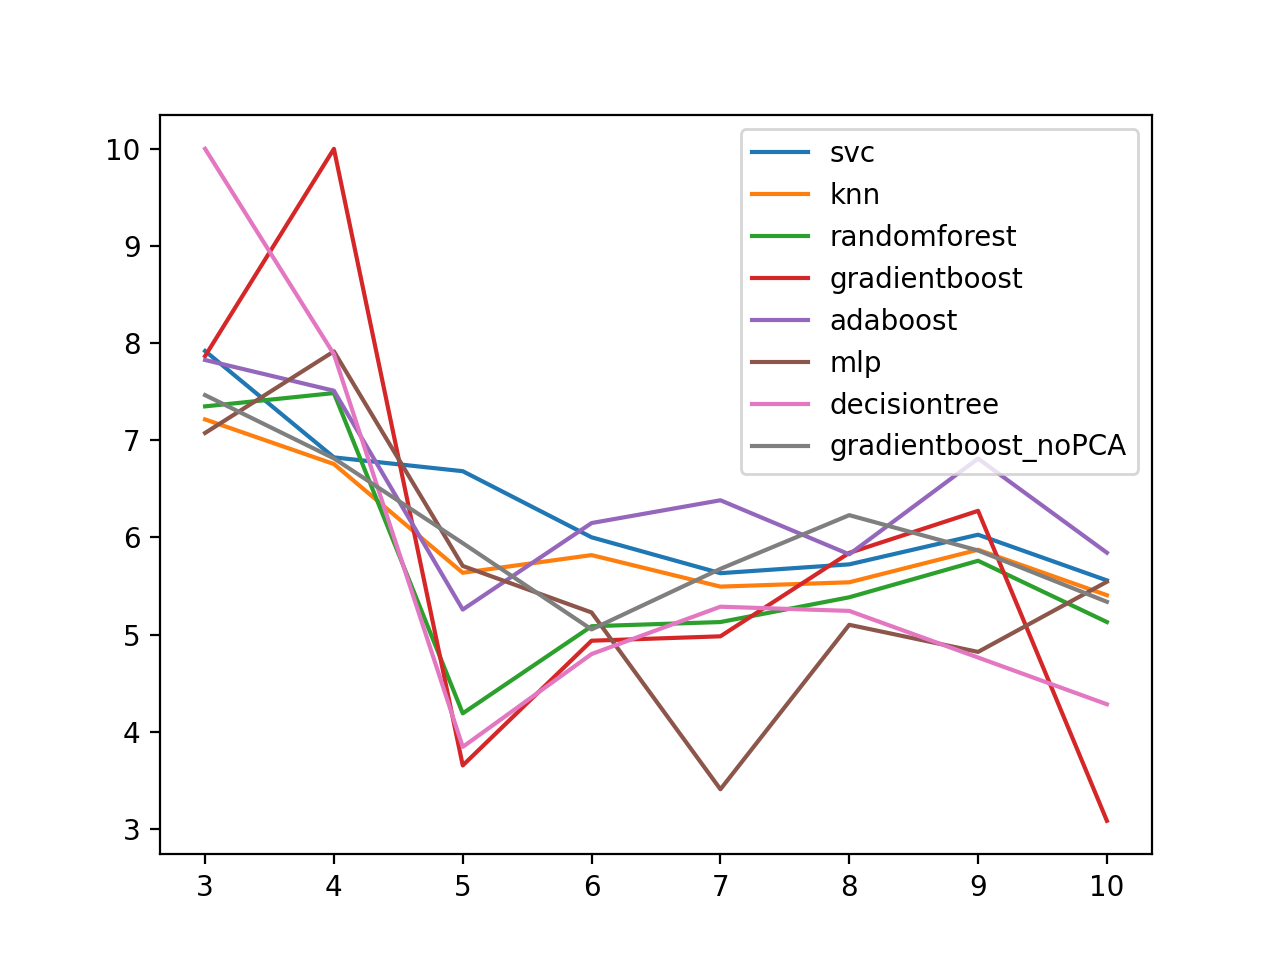
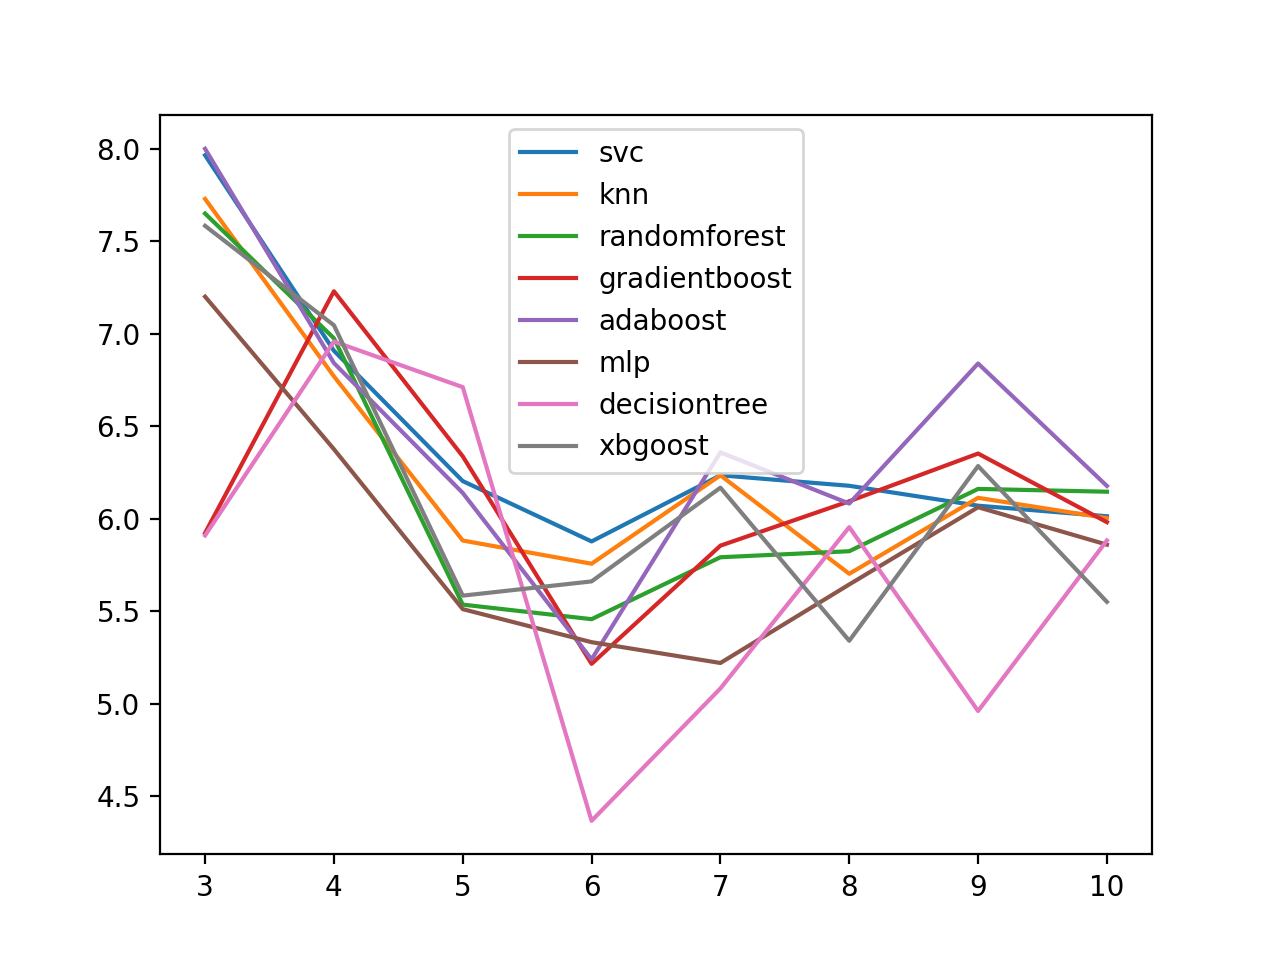
report stuff

diff --git a/src/models.py b/src/models.py
@@ -65,7 +65,7 @@ def train(df: pd.DataFrame, estimator: any, param_grid: dict, name: str, importa
     feature_names.remove("year")
     feature_names.remove("playoff")
 
-    for year in range(11, 12):
+    for year in range(3, 11):
         X_train, y_train, X_test, y_test, X = custom_split(df, year, usepca)
 
         grid_search = GridSearchCV(estimator=estimator, refit=True, verbose=False, param_grid=param_grid, n_jobs=-1, scoring="accuracy")
@@ -75,10 +75,9 @@ def train(df: pd.DataFrame, estimator: any, param_grid: dict, name: str, importa
         # Predictions on training set
         y_pred_full = grid_search.best_estimator_.predict_proba(X_test)
         y_pred = y_pred_full[:,1]
-        
-        #errors.append(str(predict_error(y_pred, y_test, year)))
 
-        error = predict_error_2metric(y_pred, y_test)
+        error = predict_error(y_pred, y_test, year)
+        errors.append(str(error))
 
         if name == "decisiontree":
             tree.plot_tree(grid_search.best_estimator_, feature_names=feature_names)
@@ -89,9 +88,9 @@ def train(df: pd.DataFrame, estimator: any, param_grid: dict, name: str, importa
         #plot_confusion_matrix(f"{name}/year{year}", y_test, y_pred_full)
         #if (importances): calculate_importances(f"{name}/year{year}", grid_search.best_estimator_, X, X_test, y_test)
 
-    #with open(f"results_{name}.txt", "w") as f:
-    #    for error in errors:
-    #        f.write(f"{error}\n")
+    with open(f"results_{name}.txt", "w") as f:
+        for error in errors:
+            f.write(f"{error}\n")
     return error
 
 def objective(trial):
@@ -198,14 +197,16 @@ def model_xgboost():
 
     #df = prepare_data_y11()
     params = {
-        'max_depth': [3, 5, 6],
-        'learning_rate': [0.5, 0.3, 0.1],
-        'subsample': [0.5, 0.7, 1]
+        'min_child_weight': [1, 5, 10],
+        'gamma': [0.1, 0.3, 0.5],
+        'max_depth': [5, 6, 7]
     }
     estimator = XGBClassifier(random_state=42)
     min_error = float('inf')
     best_alphas = None
-    for alphas in alpha_combinations:
+    df = prepare_data_y11(0.9, 0.8, 0.8, 0.6)
+    train(df, estimator, params, "xbgoost", False, False)
+    '''for alphas in alpha_combinations:
         alpha1, alpha2, alpha3, alpha4 = alphas
         alpha1= alpha1.item() 
         alpha2= alpha2.item()
@@ -221,10 +222,10 @@ def model_xgboost():
             best_alphas = alphas
             print (f"New best error: {min_error} with alphas: {best_alphas}")
 
-    print(f"Best alphas: {best_alphas} - Error: {min_error}")
+    print(f"Best alphas: {best_alphas} - Error: {min_error}")'''
 
 def model_randomforest():
-    df = prepare_data_y11()
+    df = prepare_data_y11(0.9, 0.8, 0.8, 0.6)
 
     param_grid = {
         'n_estimators': [100, 200, 500],
@@ -238,7 +239,7 @@ def model_randomforest():
     train(df, estimator, param_grid, "randomforest", False)
 
 def model_gradientboost():
-    df = prepare_data_y11()
+    df = prepare_data_y11(0.9, 0.8, 0.8, 0.6)
     gradient_boosting_params = {
         'learning_rate': [0.001, 0.005, 0.01, 0.05, 0.1, 0.5],
         'max_leaf_nodes': [20,30,40]
@@ -247,7 +248,7 @@ def model_gradientboost():
     train(df, estimator, gradient_boosting_params, "gradientboost", False)
 
 def model_gradientboost_nopca():
-    df = prepare_data()
+    df = prepare_data_y11(0.9, 0.8, 0.8, 0.6)
     gradient_boosting_params = {
         'learning_rate': [0.001, 0.005, 0.01, 0.05, 0.1, 0.5],
         'max_leaf_nodes': [20,30,40]
@@ -265,6 +266,7 @@ def model_badgb():
     train(df, estimator, gradient_boosting_params, "bad_gradientboost", True)
 
 def model_svc():
+    df = prepare_data_y11(0.9, 0.8, 0.8, 0.6)
     alpha_values = np.linspace(0.25, 0.75, num=2)  # Generate 11 values between 0 and 1
     alpha_combinations = list(product(alpha_values, repeat=4))  # Generate all combinations of 4 alphas
 
@@ -274,7 +276,8 @@ def model_svc():
     svc = SVC(probability=True, random_state=42)
     min_error = float('inf')
     best_alphas = None
-    for alphas in alpha_combinations:
+    train(df, svc, param_grid, "svc", False)
+    '''for alphas in alpha_combinations:
         alpha1, alpha2, alpha3, alpha4 = alphas
         df = prepare_data_y11(alpha1.item(), alpha2.item(), alpha3.item(), alpha4.item())
         print(f"Testing with alphas: {alphas}")
@@ -283,10 +286,10 @@ def model_svc():
             min_error = error
             best_alphas = alphas
             print (f"New best error: {min_error} with alphas: {best_alphas}")
-    print(f"Best alphas: {best_alphas}")
+    print(f"Best alphas: {best_alphas}")'''
 
 def model_adaboost():
-    df = prepare_data_y11()
+    df = prepare_data_y11(0.9, 0.8, 0.8, 0.6)
     param_grid = {
         'n_estimators': [100, 200, 500],
         'learning_rate': [0.5,1,2,5],
@@ -296,7 +299,7 @@ def model_adaboost():
     train(df, estimator, param_grid, "adaboost")
 
 def model_knn():
-    df = prepare_data()
+    df = prepare_data_y11(0.9, 0.8, 0.8, 0.6)
     param_grid = {
         'n_neighbors': list(range(1, 27)),
         'weights': ['uniform', 'distance'],
@@ -306,16 +309,16 @@ def model_knn():
     train(df, estimator, param_grid, "knn")
 
 def model_decisiontree():
-    df = prepare_data_y11()
+    df = prepare_data_y11(0.9, 0.8, 0.8, 0.6)
     param_grid = { 'criterion':['gini','entropy'],'max_depth': np.arange(3, 15)}
     estimator = DecisionTreeClassifier(random_state=42)
     train(df, estimator, param_grid, "decisiontree")
 
 def model_mlp():
-    df = prepare_data_y11()
+    df = prepare_data_y11(0.9, 0.8, 0.8, 0.6)
     param_grid = {
-        'hidden_layer_sizes': [(50, 50, 50), (50,50,50,50,50)],
-        'max_iter': [800, 1000],
+        'hidden_layer_sizes': [(25, 25, 25)],
+        'max_iter': [400, 600],
         'activation': ['tanh', 'relu'],
         'solver': ['adam'],
         'alpha': [ 0.0001, 0.001],

diff --git a/src/analysis.py b/src/analysis.py
@@ -97,13 +97,11 @@ def predict_error(y_pred, y_test, year):
     y_pred = softmax(y_pred)
     y_pred = [8*y for y in y_pred]
 
-
     error = 0
     for i in range(len(y_pred)):
-        print(y_pred[i])
-        error += abs(y_pred[i] - list(y_test)[i])
+        error += abs(y_pred[i] - list(y_test["playoff"])[i])
  
-    #print(f"predicting year {year}: error was {error}")
+    print(f"predicting year {year}: error was {error}")
     return error
 
 def predict_error_2metric(y_pred, y_test: pd.DataFrame):

diff --git a/src/main.py b/src/main.py
@@ -10,7 +10,7 @@ def main():
 
     #model_randomforest()
     
-    model_xgboost3()
+    #model_xgboost()
     #model_gradientboost()
     #model_gradientboost_nopca()
     #model_badgb()
@@ -18,7 +18,7 @@ def main():
     #model_adaboost()
     #model_knn()
     #model_decisiontree()
-    #model_mlp()
+    model_mlp()
 
     #global_model_rf() # Accuracy: 0.5454545
 

diff --git a/src/plot_results.py b/src/plot_results.py
@@ -16,4 +16,4 @@ def plot_results(models):
     plt.legend()
     plt.savefig("results.png", dpi=200)
 
-plot_results(["svc", "knn", "randomforest", "gradientboost", "adaboost", "mlp", "decisiontree", "gradientboost_noPCA"])
+plot_results(["svc", "knn", "randomforest", "gradientboost", "adaboost", "mlp", "decisiontree", "xbgoost"])
